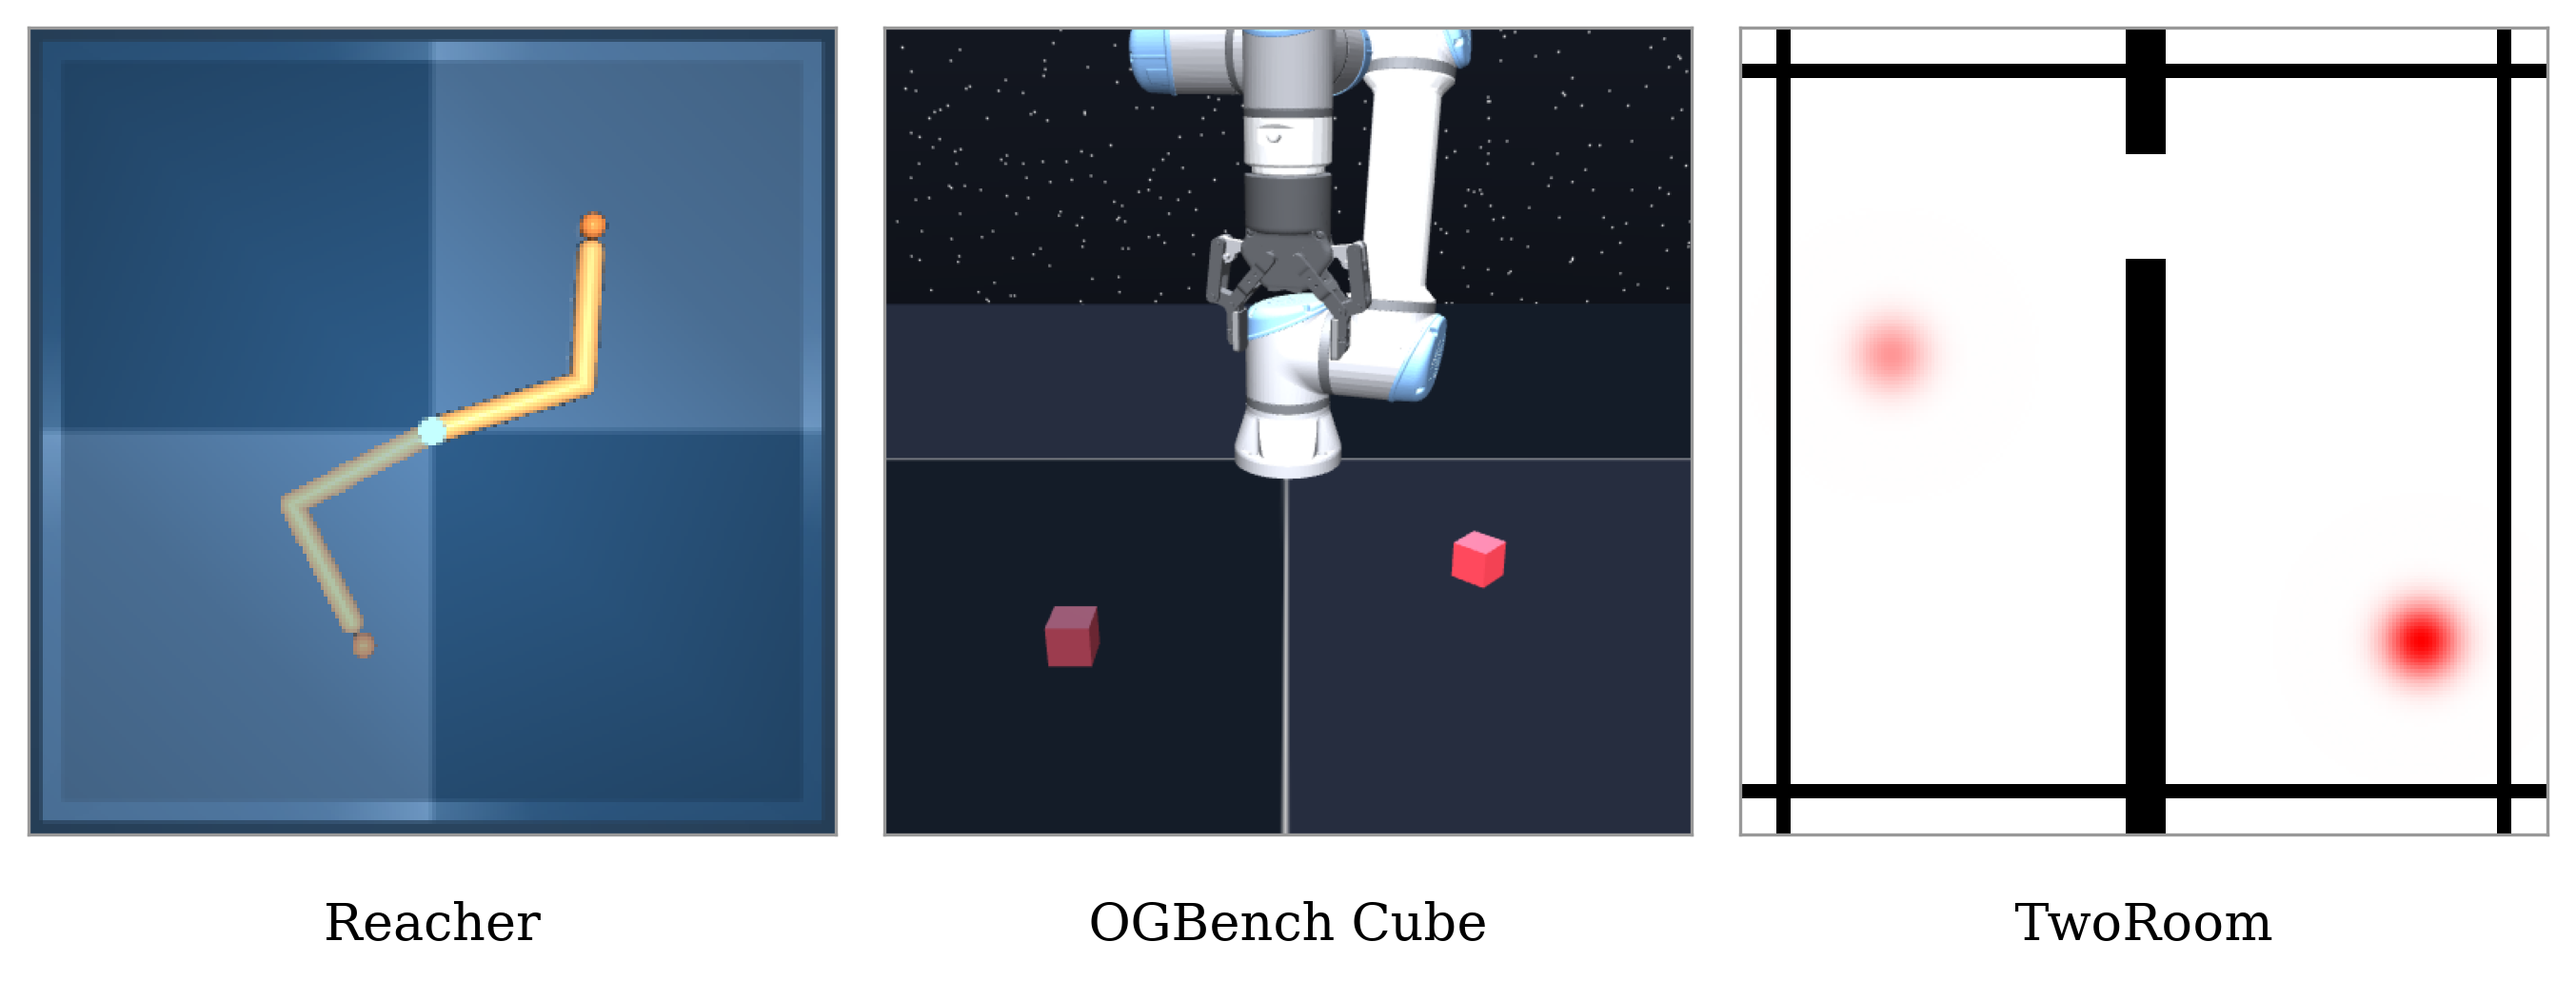
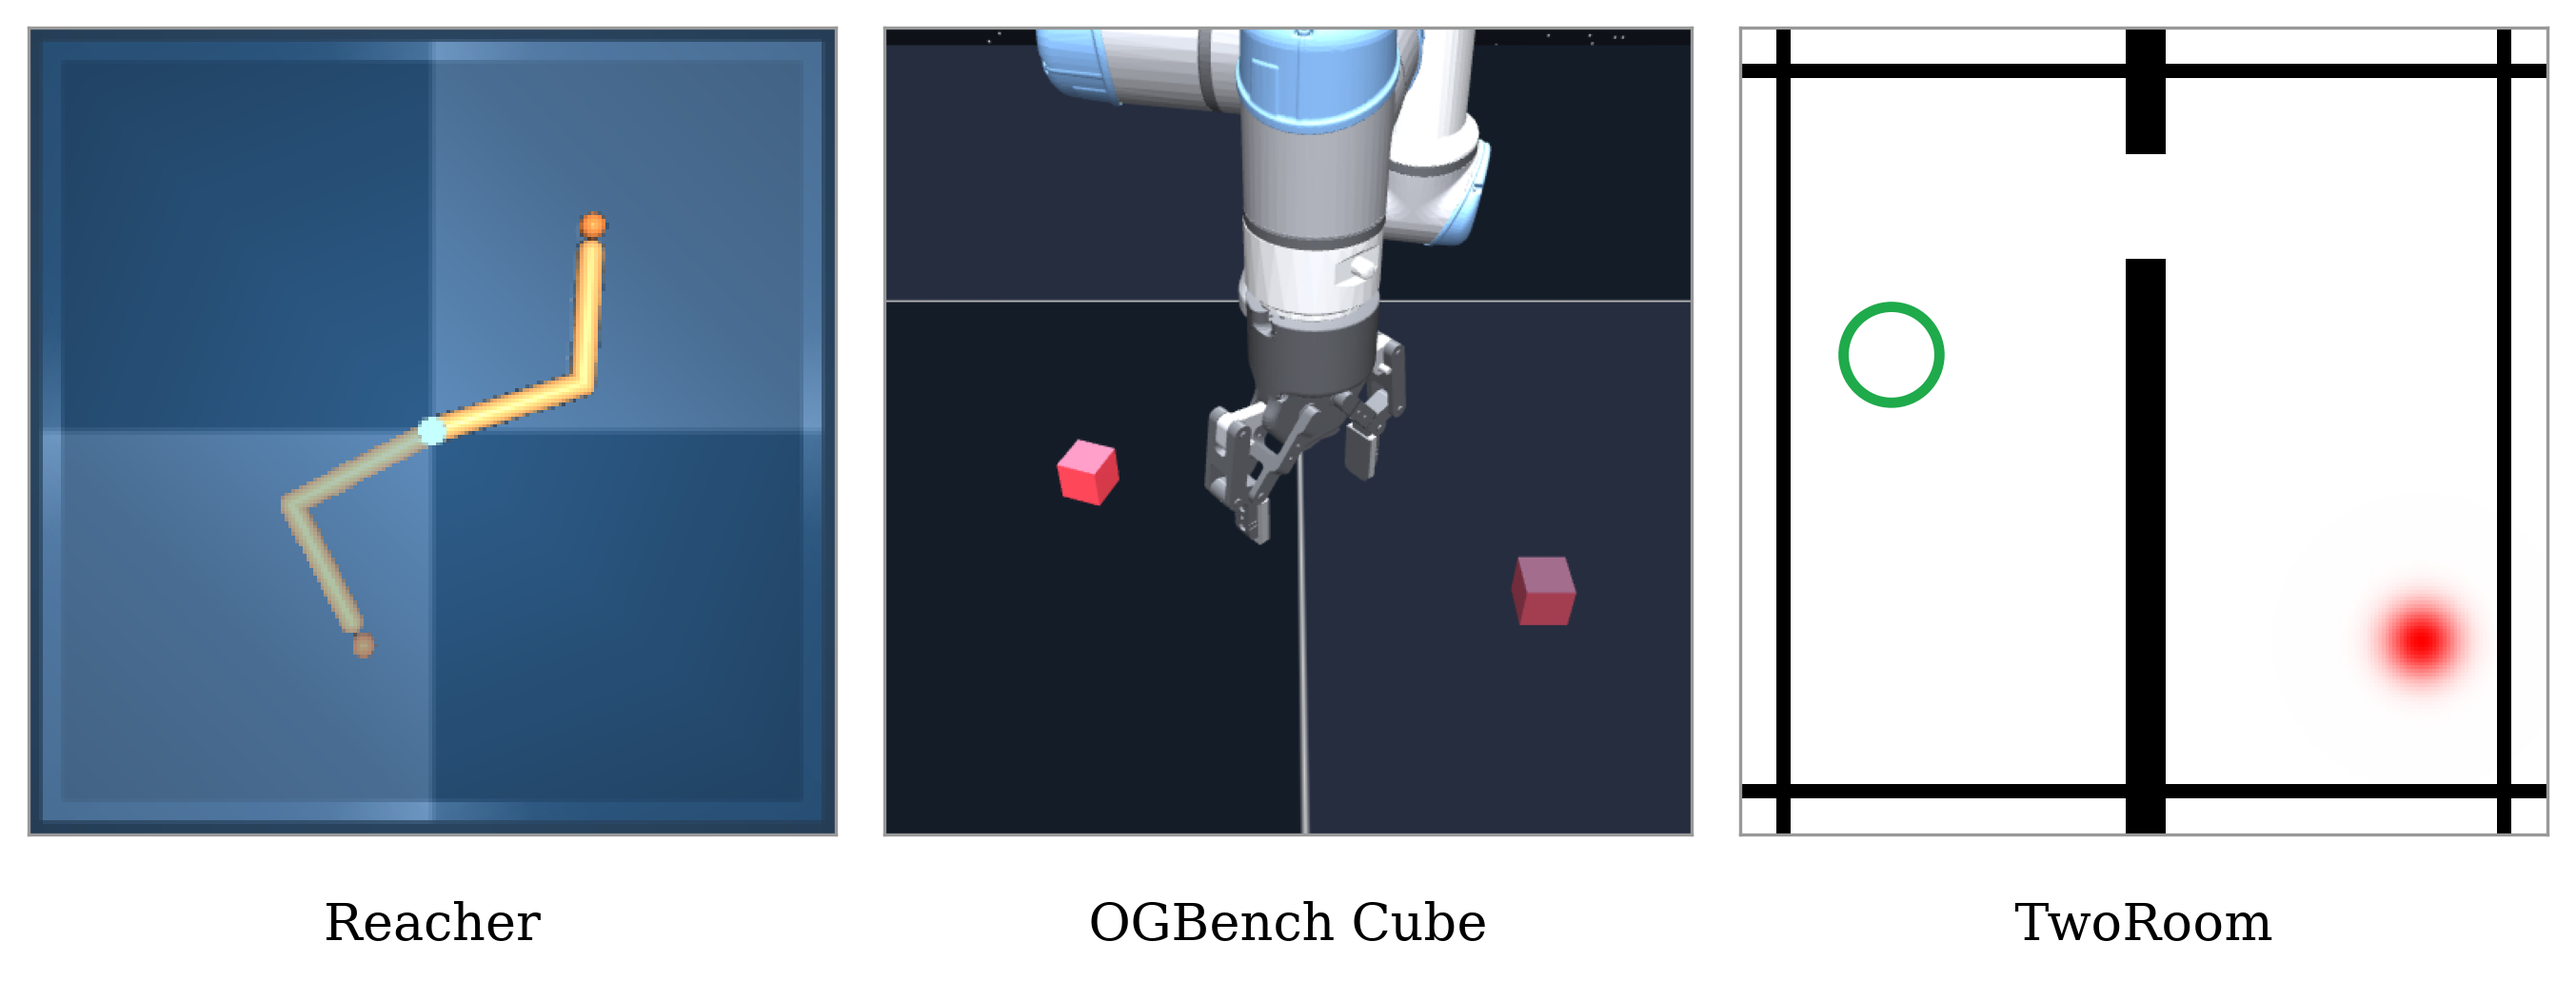
Replication job: seed/cache-tag/eval-conditions knobs for follow-up actor seeds

diff --git a/scripts/make_env_figure.py b/scripts/make_env_figure.py
@@ -25,9 +25,18 @@ import matplotlib.pyplot as plt
 import mujoco
 import numpy as np
 import stable_worldmodel  # noqa: F401  (registers the swm/* envs)
+from matplotlib.patches import Circle
+
 RES = 512
 GOAL_COLOR = "#f5c518"
 GOAL_EDGE = "#2b2b2b"
+RING_COLOR = "#1faa4b"
+
+# `front_pixels` is what get_pixel_observation() renders, so it is the view the
+# policy sees and the one the evaluation videos are recorded from.
+VIDEO_CAMERA = "front_pixels"
+# Arm start that keeps the wrist and gripper inside that camera's tight crop.
+EE_START = np.array([0.58, 0.0, 0.20], dtype=np.float32)
 
 # Light UR5e materials so the arm is legible against the dark table.
 ARM_MATERIALS = {
@@ -100,9 +109,12 @@ def make_reacher(seed=0, goal_seed=7):
 # --------------------------------------------------------------------------- cube
 
 
-def make_cube(seed=4):
+def make_cube(seed=2):
     env = gym.make("swm/OGBCube-v0", render_mode="rgb_array", ob_type="pixels", width=RES, height=RES)
-    env.reset(seed=seed)
+    # The arm start is a reset variation, so it has to be supplied through reset
+    # options -- assigning to the space is undone by the reset itself.  This pose
+    # brings the wrist and gripper down into the camera's crop.
+    env.reset(seed=seed, options={"variation_values": {"agent.ee_start_position": EE_START}})
     unwrapped = env.unwrapped
     model, data = unwrapped._model, unwrapped._data
 
@@ -121,7 +133,7 @@ def make_cube(seed=4):
         model.geom(gid).rgba[3] = 0.35
 
     goal_pos = data.mocap_pos[unwrapped._cube_target_mocap_ids[block]].copy()
-    cam = mujoco.mj_name2id(model, mujoco.mjtObj.mjOBJ_CAMERA, "front")
+    cam = mujoco.mj_name2id(model, mujoco.mjtObj.mjOBJ_CAMERA, VIDEO_CAMERA)
     goal_px = project(
         goal_pos,
         data.cam_xpos[cam].copy(),
@@ -130,7 +142,7 @@ def make_cube(seed=4):
         RES,
         RES,
     )
-    frame = np.asarray(unwrapped.render(camera="front"))
+    frame = np.asarray(unwrapped.render(camera=VIDEO_CAMERA))
 
     # Goal frame: the cube itself sitting on the target pose.
     body = mujoco.mj_name2id(model, mujoco.mjtObj.mjOBJ_BODY, "object_0")
@@ -138,7 +150,7 @@ def make_cube(seed=4):
     saved = data.qpos[adr : adr + 3].copy()
     data.qpos[adr : adr + 3] = goal_pos
     mujoco.mj_forward(model, data)
-    goal_frame = np.asarray(unwrapped.render(camera="front"))
+    goal_frame = np.asarray(unwrapped.render(camera=VIDEO_CAMERA))
     data.qpos[adr : adr + 3] = saved
     mujoco.mj_forward(model, data)
     env.close()
@@ -157,13 +169,18 @@ def make_tworoom(seed=7):
     target = unwrapped.target_position.cpu().numpy()
     goal_frame = unwrapped._render_frame(agent_pos=unwrapped.target_position).cpu().numpy().transpose(1, 2, 0)
 
-    unwrapped.variation_space["rendering"]["render_target"].set_value(1)
-    unwrapped.variation_space["target"]["color"].set_value(np.array([255, 150, 150], dtype=np.uint8))
-    ghost = np.asarray(env.render())
-    unwrapped.variation_space["rendering"]["render_target"].set_value(0)
+    radius = float(unwrapped.variation_space["agent"]["radius"].value.item())
     env.close()
 
-    return {"frame": frame, "goal_frame": goal_frame, "goal_px": (float(target[0]), float(target[1])), "ghost": ghost}
+    # A translucent dot would read as a second agent here, so TwoRoom marks its
+    # goal with an open ring instead.
+    return {
+        "frame": frame,
+        "goal_frame": goal_frame,
+        "goal_px": (float(target[0]), float(target[1])),
+        "ghost": frame,
+        "ring": 1.9 * radius,
+    }
 
 
 # --------------------------------------------------------------------------- figure
@@ -176,6 +193,11 @@ def draw(panels, style: str, out: Path, dpi: int) -> None:
     for ax, (label, panel) in zip(axes, panels, strict=True):
         image = panel["ghost"] if style == "ghost" else panel["frame"]
         ax.imshow(image)
+
+        if style == "ghost" and "ring" in panel:
+            ax.add_patch(
+                Circle(panel["goal_px"], panel["ring"], fill=False, edgecolor=RING_COLOR, linewidth=2.6)
+            )
 
         if style == "star":
             x, y = panel["goal_px"]
